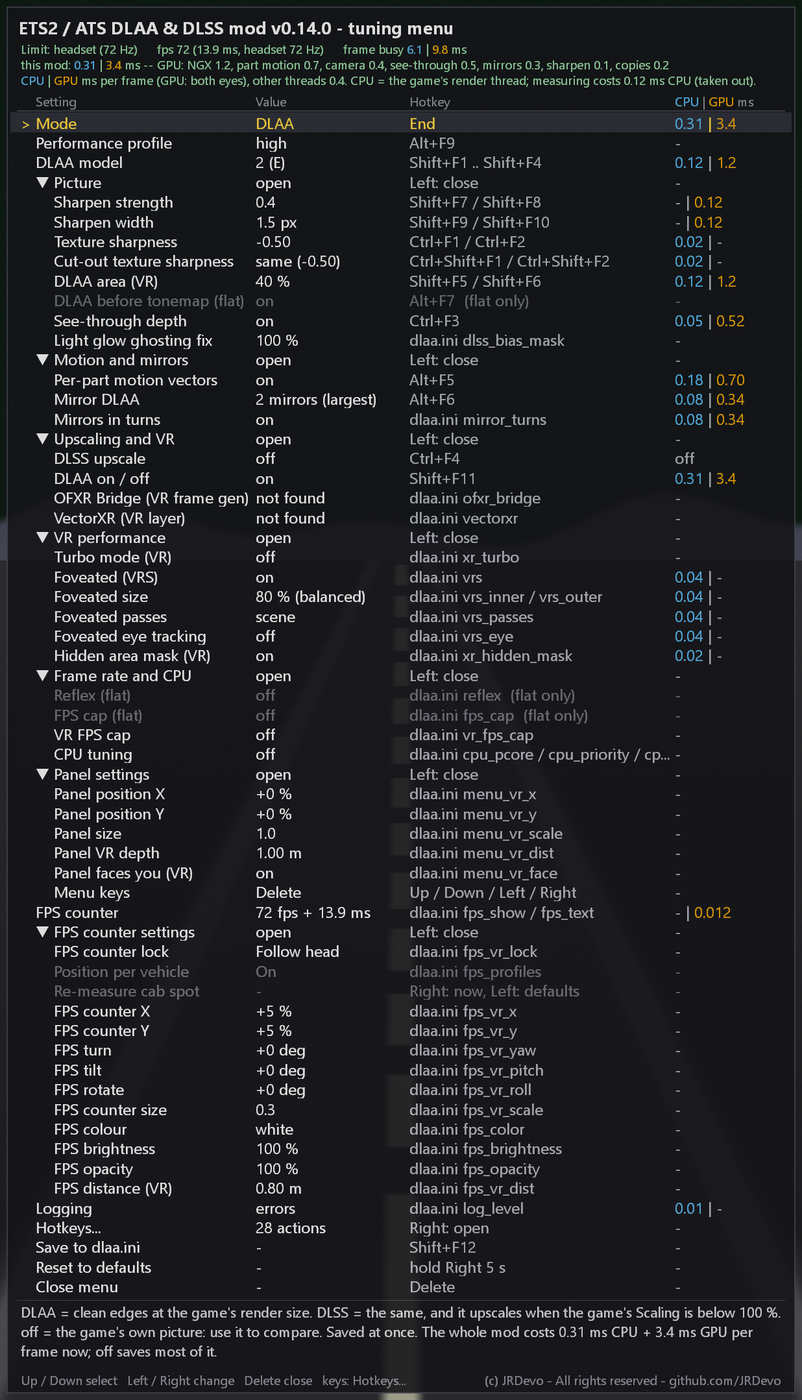
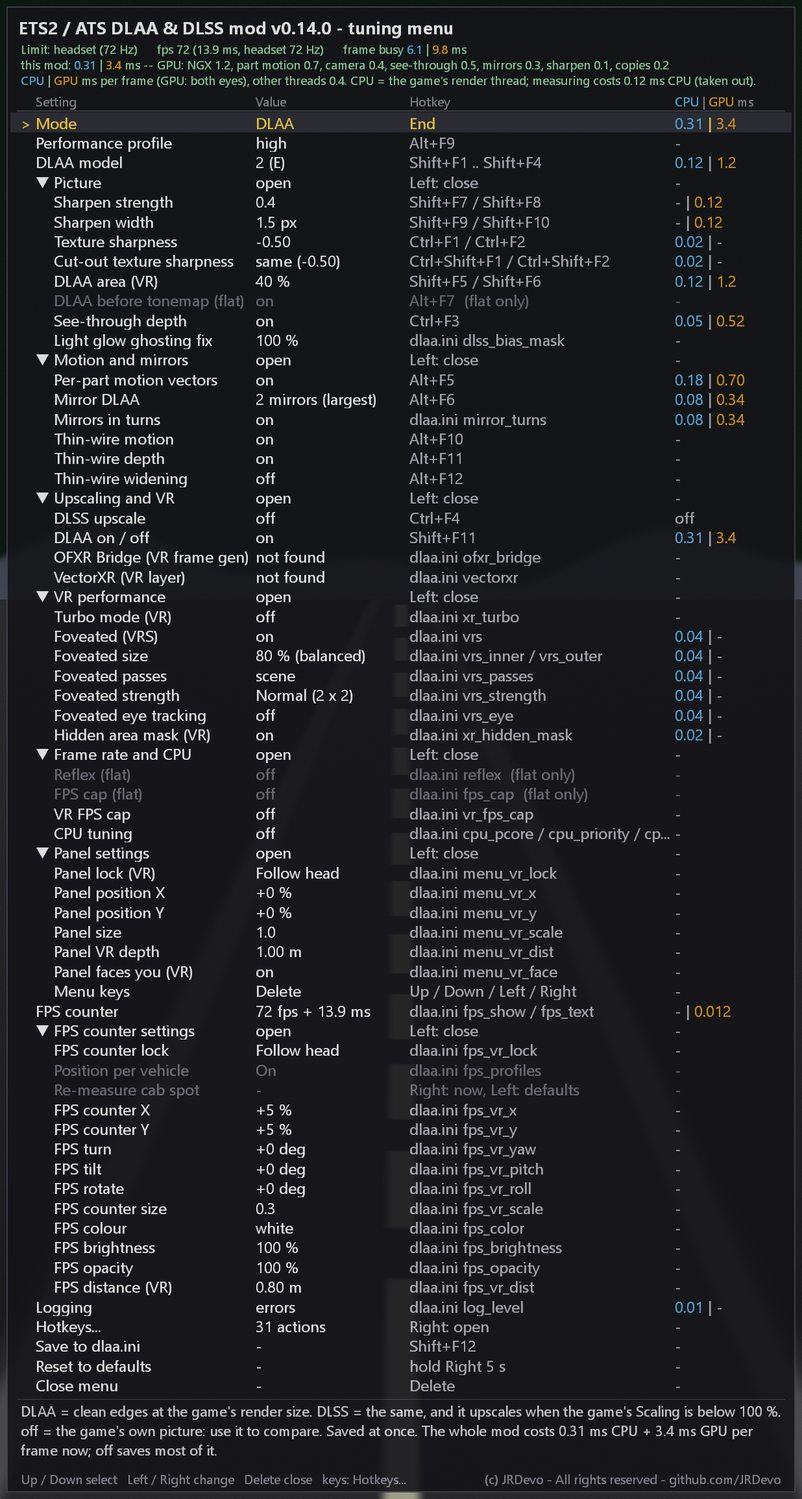
v0.14.0: release docs, menu pictures, phase 70 review fixes
- README / KEYS.md / dlaa.ini.sample: v0.14.0 status (rc wording gone), every change
  since v0.13.0 in the feature list and troubleshooting, Panel lock (VR) section and the
  4 menu_vr_lock keys, VectorXR tested on a Quest 3 (frame generation = half rate, like SSW).
- Menu pictures redone with tests/menu_shot.cpp: wire rows, Foveated strength, Panel lock,
  31 hotkey actions, v0.14.0 titles.
- Phase 70 review fixes (Fable): the fixed panel's pivot is dropped whenever the menu is
  closed (non-LOCAL spaces re-capture it at the next open); the menu_vr_lock keys parse
  outside WITH_DLAA; stale comment; DEVELOPMENT.md phase 70 entry; inject.cpp changelog.

diff --git a/tests/menu_shot.cpp b/tests/menu_shot.cpp
@@ -67,6 +67,9 @@ static const E kRows[] = {
     { G_MOT, false, L"Per-part motion vectors", L"on", L"Alt+F5", L"<c>0.18</> | <g>0.70</>", false, nullptr, nullptr },
     { G_MOT, false, L"Mirror DLAA", L"2 mirrors (largest)", L"Alt+F6", L"<c>0.08</> | <g>0.34</>", false, nullptr, nullptr },
     { G_MOT, false, L"Mirrors in turns", L"on", L"dlaa.ini mirror_turns", L"<c>0.08</> | <g>0.34</>", false, nullptr, nullptr },
+    { G_MOT, false, L"Thin-wire motion", L"on", L"Alt+F10", L"", false, nullptr, nullptr },          // phase 69
+    { G_MOT, false, L"Thin-wire depth", L"on", L"Alt+F11", L"", false, nullptr, nullptr },
+    { G_MOT, false, L"Thin-wire widening", L"off", L"Alt+F12", L"", false, nullptr, nullptr },
     { G_UP, true, L"Upscaling and VR", L"", L"", L"", false, nullptr, nullptr },
     { G_UP, false, L"DLSS upscale", L"off", L"Ctrl+F4", L"off", false, nullptr, nullptr },
     { G_UP, false, L"DLAA on / off", L"on", L"Shift+F11", L"<c>0.31</> | <g>3.4</>", false, nullptr, nullptr },
@@ -82,6 +85,7 @@ static const E kRows[] = {
       L"CPU 0.04 ms per frame; it saves GPU time in the game's own figure." },
     { G_VRP, false, L"Foveated size", L"80 % (balanced)", L"dlaa.ini vrs_inner / vrs_outer", L"<c>0.04</> | -", false, nullptr, nullptr },
     { G_VRP, false, L"Foveated passes", L"scene", L"dlaa.ini vrs_passes", L"<c>0.04</> | -", false, nullptr, nullptr },
+    { G_VRP, false, L"Foveated strength", L"Normal (2 x 2)", L"dlaa.ini vrs_strength", L"<c>0.04</> | -", false, nullptr, nullptr },   // phase 59f
     { G_VRP, false, L"Foveated eye tracking", L"off", L"dlaa.ini vrs_eye", L"<c>0.04</> | -", false, nullptr, nullptr },   // phase 59
     { G_VRP, false, L"Hidden area mask (VR)", L"on", L"dlaa.ini xr_hidden_mask", L"<c>0.02</> | -", false, nullptr, nullptr },
     { G_FR, true, L"Frame rate and CPU", L"", L"", L"", false, nullptr, nullptr },                                       // phase 52
@@ -90,6 +94,7 @@ static const E kRows[] = {
     { G_FR, false, L"VR FPS cap", L"off", L"dlaa.ini vr_fps_cap", L"", false, nullptr, nullptr },
     { G_FR, false, L"CPU tuning", L"off", L"dlaa.ini cpu_pcore / cpu_priority / cpu_no_throttle", L"", false, nullptr, nullptr },   // phase 54
     { G_PANEL, true, L"Panel settings", L"", L"", L"", false, nullptr, nullptr },
+    { G_PANEL, false, L"Panel lock (VR)", L"Follow head", L"dlaa.ini menu_vr_lock", L"", false, nullptr, nullptr },   // phase 70
     { G_PANEL, false, L"Panel position X", L"+0 %", L"dlaa.ini menu_vr_x", L"", false, nullptr, nullptr },
     { G_PANEL, false, L"Panel position Y", L"+0 %", L"dlaa.ini menu_vr_y", L"", false, nullptr, nullptr },
     { G_PANEL, false, L"Panel size", L"1.0", L"dlaa.ini menu_vr_scale", L"", false, nullptr, nullptr },
@@ -112,7 +117,7 @@ static const E kRows[] = {
     { G_FPSG, false, L"FPS opacity", L"100 %", L"dlaa.ini fps_opacity", L"", false, nullptr, nullptr },   // phase 51f
     { G_FPSG, false, L"FPS distance (VR)", L"0.80 m", L"dlaa.ini fps_vr_dist", L"", false, nullptr, nullptr },
     { -1, false, L"Logging", L"errors", L"dlaa.ini log_level", L"<c>0.01</> | -", false, nullptr, nullptr },
-    { -1, false, L"Hotkeys...", L"28 actions", L"Right: open", L"", false, nullptr, nullptr },   // v0.13.0 phase 50
+    { -1, false, L"Hotkeys...", L"31 actions", L"Right: open", L"", false, nullptr, nullptr },   // v0.13.0 phase 50
     { -1, false, L"Save to dlaa.ini", L"-", L"Shift+F12", L"", false, nullptr, nullptr },
     { -1, false, L"Reset to defaults", L"-", L"hold Right 5 s", L"", false, nullptr, nullptr },
     { -1, false, L"Close menu", L"-", L"Delete", L"", false, nullptr, nullptr },
@@ -361,6 +366,7 @@ static void HotkeysShot(Gpu& g, const wchar_t* file) {
         { L"DLAA area (VR) -", L"Shift+F5", L"-" }, { L"DLAA area (VR) +", L"Shift+F6", L"-" },
         { L"Per-part motion vectors", L"Alt+F5", L"-" }, { L"Mirror DLAA on / off", L"Alt+F6", L"-" },
         { L"DLAA before tonemap (flat)", L"Alt+F7", L"-" }, { L"See-through depth", L"Ctrl+F3", L"-" },
+        { L"Thin-wire motion (DLAA)", L"Alt+F10", L"-" }, { L"Thin-wire depth", L"Alt+F11", L"-" }, { L"Thin-wire widening", L"Alt+F12", L"-" },
         { L"DLSS upscale", L"Ctrl+F4", L"-" }, { L"DLAA on / off", L"Shift+F11", L"-" }, { L"Save to dlaa.ini", L"Shift+F12", L"-" },
         { L"Menu: open / close", L"Delete", L"Wheel10" }, { L"Menu: up", L"Up", L"WheelUp" }, { L"Menu: down", L"Down", L"WheelDown" },
         { L"Menu: left", L"Left", L"WheelLeft" }, { L"Menu: right", L"Right", L"WheelRight" },
@@ -370,7 +376,7 @@ static void HotkeysShot(Gpu& g, const wchar_t* file) {
     const int bindLine = 8;                                        // "Sharpen strength +"
     TuningMenu::Panel p;
     memset(&p, 0, sizeof(p));
-    wcsncpy_s(p.title, L"ETS2 / ATS DLAA & DLSS mod v0.13.0 - hotkeys", _TRUNCATE);
+    wcsncpy_s(p.title, L"ETS2 / ATS DLAA & DLSS mod v0.14.0 - hotkeys", _TRUNCATE);
     Put(p.perf[0], 224, Ink(kPerf0));
     Put(p.perf[1], 224, Ink(kPerf1));
     Put(p.perf[2], 224, Ink(kPerf2));

diff --git a/src/inject.cpp b/src/inject.cpp
@@ -1,3 +1,12 @@
+// v0.14.0 -- phase 59 (eye-tracked foveated rendering, + 59f vrs_strength), phases 60-69 (thin wires: dlaa_mv_dilate,
+//           mv_fwd_conservative, wire_widen + their menu rows), phase 56 (VectorXR), phase 70 (below).
+// phase 70 -- VR PANEL FIXED IN THE CAB + SHARPER VR PANEL TEXT (dlaa.ini menu_vr_lock 0/1, menu_vr_lock_x / _y degrees,
+//           menu_vr_lock_dist cm; menu row "Panel lock (VR)", first in Panel settings). Lock 1 = the panel quad in the game's
+//           layer space at yaw / pitch / distance from the seat (xr_hook.cpp OvBuildQuadLocked's `anchored`, shared with the fps
+//           box "fixed in play space"; pivot state per quad): steady while the head moves -- the head-locked VIEW-space quad
+//           shivered with Turbo's made-up display times. X / Y / depth rows edit the fixed spot while locked; the in-picture
+//           fallback stays head-locked. kOvPanelDensity 1.6 -> 3.2 (the panel image at menu_vr_scale 0.4 was 486 px with 10-px
+//           fonts the compositor stretched). kIniMaxKeys 64 -> 80.
 // phase 59 -- EYE-TRACKED FOVEATED RENDERING, EXPERIMENTAL (dlaa.ini vrs_eye 0/1, vrs_eye_fake 0/1, vrs_eye_smooth 0..100 ms, all
 //           default off / 20; menu row "Foveated eye tracking" after Foveated passes; GitHub discussion #11, a Varjo Aero tester).
 //           xr_hook.cpp adds XR_EXT_eye_gaze_interaction to the runtime's xrCreateInstance (the same extension-list copy as the
@@ -22622,11 +22631,6 @@ void LoadConfig() {
 #ifdef WITH_DLAA
             if (!strcmp(key, "did_shadow"))        { g_didShadowCfg = v >= 2 ? 2 : (v == 1 ? 1 : 0); continue; }   // startup only
             if (!strcmp(key, "did_shadow_verify")) { g_didShadowVerify = v < 0 ? -1 : (int)(v > 100000 ? 100000 : v); continue; }
-            // phase 70: the VR panel fixed in the cab (outside the else-if chain: C1061)
-            if (!strcmp(key, "menu_vr_lock"))      { g_menuVrLock = v != 0 ? 1 : 0; continue; }
-            if (!strcmp(key, "menu_vr_lock_x"))    { g_menuVrLockX = v < -90 ? -90 : (v > 90 ? 90 : (int)v); continue; }
-            if (!strcmp(key, "menu_vr_lock_y"))    { g_menuVrLockY = v < -60 ? -60 : (v > 60 ? 60 : (int)v); continue; }
-            if (!strcmp(key, "menu_vr_lock_dist")) { g_menuVrLockDist = v < 30 ? 30 : (v > 300 ? 300 : (int)v); continue; }
             // phase 40 / 41 / 42 (outside the else-if chain too: C1061 at the dev merge)
             if (!strcmp(key, "mirror_turns"))       { g_mirTurns = v > 0 ? 1 : 0; g_mirTurnsExplicit = true; continue; }   // phase 41
             // phase 52: frame rate (outside the else-if chain: C1061; the menu's Frame rate rows switch them live)
@@ -22637,6 +22641,11 @@ void LoadConfig() {
             if (!strcmp(key, "vectorxr"))           { Ofxr::ConfigureVectorXr(v != 0 ? 1 : 0); continue; }
             if (!strcmp(key, "vr_fps_cap"))         { g_vrFpsCap = FramePace::ClampVrDiv(v); g_paceExplicit = true; continue; }
 #endif
+            // phase 70: the VR panel fixed in the cab (outside the else-if chain: C1061)
+            if (!strcmp(key, "menu_vr_lock"))      { g_menuVrLock = v != 0 ? 1 : 0; continue; }
+            if (!strcmp(key, "menu_vr_lock_x"))    { g_menuVrLockX = v < -90 ? -90 : (v > 90 ? 90 : (int)v); continue; }
+            if (!strcmp(key, "menu_vr_lock_y"))    { g_menuVrLockY = v < -60 ? -60 : (v > 60 ? 60 : (int)v); continue; }
+            if (!strcmp(key, "menu_vr_lock_dist")) { g_menuVrLockDist = v < 30 ? 30 : (v > 300 ? 300 : (int)v); continue; }
             if (!strcmp(key, "xr_hidden_mask"))     { g_xrHiddenMask = v != 0 ? 1 : 0; g_xrHiddenMaskExplicit = true; continue; }   // phase 40
             if (!strcmp(key, "dlss_bias_mask"))     { g_biasCfg = v < 0 ? 0 : (v > 100 ? 100 : (int)v); g_biasExplicit = true; continue; }   // phase 49
             if (!strcmp(key, "light_redraw_jitter")) { g_lightRedrawCfg = v != 0 ? 1 : 0; continue; }   // phase 55 (outside the chain: C1061)

diff --git a/src/xr_hook.cpp b/src/xr_hook.cpp
@@ -989,7 +989,10 @@ bool OvEndFrame(int i, XrSession ses, const XrFrameEndInfo* fe, const XrComposit
     struct EndSeq { uint64_t& s; ~EndSeq() { ++s; } } endSeq{ s_ov.endSeq };   // this frame's release-draw interval ends
     bool have[2] = { s_ov.have[0], s_ov.have[1] };
     s_ov.have[0] = s_ov.have[1] = false;
-    if (!par.enabled || !par.menuOpen) s_ov.drawnValid[0] = false;   // phase 57: drawn again the first frame it is wanted again
+    if (!par.enabled || !par.menuOpen) {
+        s_ov.drawnValid[0] = false;                      // phase 57: drawn again the first frame it is wanted again
+        s_ov.pivotHave[0] = false;                       // phase 70: the fixed panel's pivot is captured again at the next open
+    }
     if (!par.enabled || !par.fpsShow) s_ov.drawnValid[1] = false;    //   (see OvDrawWantedLocked)
     if (!par.enabled) { OvSetOk(false, false); return false; }
     if (ses != s_ov.ses) {

diff --git a/src/menu.cpp b/src/menu.cpp
@@ -771,7 +771,7 @@ float RefHeight(int nRows) {
 
 // v0.10.3 phase 29c: measured at scale 1 (the small font = 13 px there): the widest case relative to the panel -- the size is
 // rounded up from 12.5 and the hinting widens small text (Segoe UI: the default footer is 430 px at 13 px, 403 at 50 px / 4),
-// so what fits here fits at every larger build scale (VR quad 1.6+). The room = the panel width - both margins - the licence
+// so what fits here fits at every larger build scale (VR quad: 3.2 x menu_vr_scale, phase 70). The room = the panel width - both margins - the licence
 // text - the gap, as RenderPanel lays the line out. No GDI = "no".
 bool FooterFits(const wchar_t* footer) {
     if (!footer || !footer[0]) return true;

diff --git a/README.md b/README.md
@@ -23,7 +23,7 @@ an in-game menu (`Delete`) and an optional text config.
 
 **Menu:** [Features](#features) · [Download](#-download) · [Requirements](#requirements) · [Install](#install) · [Modes](#modes--the-end-key) · [Flat or VR](#flat-or-vr) · [OFXR Bridge](#ofxr-bridge-vr-frame-generation) · [VectorXR](#vectorxr-vr-layer-suite) · [Render scale](#how-render-scale-works) · [Models](#models-presets--which-one-to-use) · [Controls](#controls) · [Tuning menu](#the-tuning-menu) · [dlaa.ini](#dlaaini) · [Performance](#performance) · [Troubleshooting](#troubleshooting) · [Multiplayer](#multiplayer) · [Build](#build-from-source) · [Report a problem](#reporting-a-problem-what-to-upload) · [Contributing](CONTRIBUTING.md) · [License](#license-and-credits)
 
-> **Where the project stands (v0.13.0).** The mod was built for as many use cases, devices and situations as
+> **Where the project stands (v0.14.0).** The mod was built for as many use cases, devices and situations as
 > I could reach: flat and VR, one screen and three, keyboard, wheel and shifter, Reflex and frame rate caps,
 > foveated rendering, a hidden area mask, Turbo mode, CPU tuning, a tuning menu with every setting and its cost.
 > There are many options to tweak, and to tweak is paradise. The bells and whistles I know of are in; the ideas
@@ -38,25 +38,29 @@ an in-game menu (`Delete`) and an optional text config.
 - **Mirrors anti-aliased too**, trailer included.
 - **Exact motion for traffic**, wheels, trailers and plates: sharp, no ghosting.
 - Menu and truck-preview screens get anti-aliasing as well.
+- **Steadier near wires**: telephone and power wires stay calm while you drive. **new**
 - Four DLSS models, switched live with a key.
 - Sharper texture text and adjustable sharpening.
 
 **Flat and VR**
 - One DLL and one `dlaa.ini` for both; VR renders one pass per eye (OpenXR).
-- **Triple screens** in flat: every screen gets its own DLAA. **new**
+- **Triple screens** in flat: every screen gets its own DLAA.
 - Windows HDR and NVIDIA Smooth Motion work in flat mode.
-- OFXR Bridge (VR frame generation) and VectorXR (VR layer suite) work alongside.
+- OFXR Bridge (VR frame generation) and **VectorXR** (VR layer suite) work alongside. **new: VectorXR**
 - Drivable cars (ATS) get DLAA / DLSS too.
 
 **VR extras and speed**
-- **VR fps counter attached to the vehicle**: rides with the cab; 20 colours. **new**
-- Three VR speed-ups: hidden area mask, foveated lighting, mirrors in turns. **new**
+- **Eye-tracked foveated rendering**: the sharp area follows your eyes (eye-tracked headsets, experimental). **new**
+- **Foveated strength**: Normal / Strong / Max outer ring for more GPU saving. **new**
+- **VR fps counter attached to the vehicle**: rides with the cab; 20 colours.
+- Three VR speed-ups: hidden area mask, foveated lighting, mirrors in turns.
 - DLAA area: process only the middle of each eye.
-- **Frame rate limits**: NVIDIA Reflex and an FPS cap in flat, a half / third rate VR FPS cap. **new**
+- **Frame rate limits**: NVIDIA Reflex and an FPS cap in flat, a half / third rate VR FPS cap.
 
 **Menu**
 - **In-game menu** (`Delete`): every setting, its hotkey, its GPU cost, a short description.
 - Panel and fps counter can be moved and resized, flat and VR.
+- **VR panel fixed in the cab**: stays still while you look around; sharper text. **new**
 - Live CPU and GPU cost per part, and what limits your frame rate.
 
 **Setup**
@@ -75,7 +79,14 @@ an in-game menu (`Delete`) and an optional text config.
   costs on the GPU and a short description; `Up` / `Down` select, `Left` / `Right` change. Flat and VR (both eyes); the game does
   not see those keys while the menu is open. See [The tuning menu](#the-tuning-menu).
 - **Movable widgets** — the tuning panel and the live fps counter can both be moved and resized from the menu
-  (position X / Y and size), flat and VR each with their own place. In VR the panel turns to face you.
+  (position X / Y and size), flat and VR each with their own place. In VR the panel turns to face you. New in v0.14.0:
+  the VR panel can stay fixed in the cab (`Panel lock (VR)`), and its text is drawn sharper.
+- **Eye-tracked foveated rendering (VR, experimental)** — on a headset with eye tracking (OpenXR eye gaze, tested on
+  Varjo Aero) the sharp centre of `Foveated (VRS)` follows where you look; `Foveated strength` sets how coarse the outer
+  ring is (new in v0.14.0). See [the test guide](docs/EYE_TRACKING_TEST.md).
+- **Steadier thin wires** — near telephone and power wires no longer break up while you drive (`Thin-wire motion`,
+  `Thin-wire depth`, both on; `Thin-wire widening` is experimental and off). Far wires thinner than 1 pixel can still
+  break up (new in v0.14.0).
 - **Live CPU and GPU cost** — the menu shows what each part of this mod costs on the CPU and the GPU, in ms, and what
   limits your frame rate right now (CPU, GPU or the headset).
 - **Triple screens (flat)** — with the game's multi-monitor mode every screen gets its own DLAA (new in v0.12.0).
@@ -99,7 +110,9 @@ an in-game menu (`Delete`) and an optional text config.
 - **OFXR Bridge (VR frame generation)** — runs together with the bridge, which adds in-between frames to the
   finished eye pictures (see [OFXR Bridge](#ofxr-bridge-vr-frame-generation)).
 - **VectorXR (VR layer suite)** — runs together with VectorXR (Turbo, Depth, frame generation, on-screen display); the mod leaves
-  its work inside the game alone (see [VectorXR](#vectorxr-vr-layer-suite)).
+  its work inside the game alone (see [VectorXR](#vectorxr-vr-layer-suite); new in v0.14.0, tested on a Quest 3).
+- **Lower CPU cost** — a performance pass in v0.14.0: the VR panel and fps box are only redrawn when their text changes,
+  and the per-part motion work in busy scenes takes less CPU time.
 - **Drivable cars (ATS)** — DLAA / DLSS also runs while you drive a car.
 - **Menu and truck-preview screens** get anti-aliasing too, not only the drive.
 - **Four DLSS models** to pick from, switched live with a key, from light to heavy.
@@ -143,13 +156,14 @@ This is an unofficial fan project. It is not affiliated with, or endorsed by, SC
 Software or NVIDIA. Euro Truck Simulator 2 and American Truck Simulator are
 trademarks of SCS Software; DLSS and DLAA are trademarks of NVIDIA Corporation.
 
-> Status: v0.13.0. New: NVIDIA Reflex and frame rate caps, a Hotkeys page in the menu, a per-vehicle fps box in VR, a night light glow fix, CPU tuning, and fixes for Linux / Proton.
-> Test build v0.14.0-rc1 (pre-release): eye-tracked foveated rendering (Varjo), Foveated strength, the thin-wire fix (near wires stay steady while driving) and VectorXR support. For testers; see [the test guide](docs/EYE_TRACKING_TEST.md).
+> Status: v0.14.0. New: eye-tracked foveated rendering (experimental, tested on Varjo), Foveated strength, steadier near wires while driving, VectorXR support (tested), and a VR menu panel that can stay fixed in the cab with sharper text. Eye tracking test guide: [docs/EYE_TRACKING_TEST.md](docs/EYE_TRACKING_TEST.md).
 > With this version the bells and whistles I know of are in. From here on the main work is performance tuning, from your logs; new ideas are still welcome. See [Contributing](CONTRIBUTING.md).
 > See the [Releases page](https://github.com/JRDevo/ETS2-ATS-DLAA-DLSS-Injection-Mod/releases) for every version.
 > DLSS upscaling in VR is still being tuned; treat it as experimental.
 
 <details><summary><h3>Older versions</h3></summary>
+
+v0.13.0: NVIDIA Reflex and frame rate caps, a Hotkeys page in the menu, a per-vehicle fps box in VR, a night light glow fix, CPU tuning, and fixes for Linux / Proton.
 
 v0.12.0: triple screens in flat, the VR fps counter attached to the vehicle, a menu in categories with a CPU | GPU cost column, hidden area mask, foveated lighting pass and mirrors in turns.
 
@@ -319,7 +333,9 @@ own thread are not mistaken for the game's.
   at start, `VectorXR: layer found in the game` once, and `OFXR Bridge / VectorXR: N calls passed through so far`. The tuning
   menu's `VectorXR (VR layer)` row (group `Upscaling and VR`) shows `found` / `not found` / `off`.
 
-Status: the handling is built but not yet tested in a headset with VectorXR; report what you see with `log_level = 4`.
+Status: tested on a Quest 3 (Virtual Desktop): the game and the mod run with VectorXR's layer loaded. With VectorXR's frame
+generation on, the game itself runs at half the frame rate and VectorXR fills the rest, as SSW / ASW do: on that PC it was no
+gain. Report what you see with `log_level = 4`.
 
 </details>
 
@@ -578,7 +594,7 @@ The three green lines under the title show the game's GPU time per frame, what t
   key first. The **Menu keys** row in the `Panel
   settings` group shows them; `Right` on it opens the Hotkeys page there. See
   [`docs/KEYS.md`](docs/KEYS.md#bind-a-key-in-the-menu).
-- **Groups (v0.10.3):** the panel rows (`Panel position X` / `Y`, `Panel size`, `Panel VR depth`, `Panel faces you`,
+- **Groups (v0.10.3):** the panel rows (`Panel lock (VR)`, `Panel position X` / `Y`, `Panel size`, `Panel VR depth`, `Panel faces you`,
   `Menu keys`) sit in the **Panel settings** group and the fps box rows (`FPS counter lock`, `X`, `Y`, `turn`, `tilt`, `rotate`, `size`, `colour`,
   `brightness`, `distance`) in the
   **FPS counter settings** group, right under the `FPS counter` row. Both groups are closed every time the menu
@@ -600,6 +616,13 @@ The three green lines under the title show the game's GPU time per frame, what t
   follows your head -- towards you as a true 3-D layer. With `menu_vr_layer = 0` (the panel drawn into the picture, as
   before; also the automatic fallback when the layers are not possible) `Panel VR depth` is the inward shift in px
   (`menu_vr_depth`).
+- **VR: panel fixed in the cab (new in v0.14.0).** The `Panel lock (VR)` row: `Follow head` (default) = the panel moves
+  with the headset; `Fixed in cab` = it stays at one spot in front of your seat and keeps still while you look around.
+  While it is fixed, `Panel position X` / `Y` set the spot in degrees around your seat (Y: plus = down) and
+  `Panel VR depth` its distance from the seat (`menu_vr_lock`, `menu_vr_lock_x`, `menu_vr_lock_y`, `menu_vr_lock_dist`;
+  0.80 m by default). The head-locked position is kept for when you switch back. Needs the VR layer
+  (`menu_vr_layer = 1`, the default); with `menu_vr_layer = 0` the panel always follows your head.
+  Also new in v0.14.0: the VR panel text is drawn with twice the pixels, so small panel sizes stay sharp.
 - **Live fps counter:** ![fps counter](docs/images/fps-counter.png) the `FPS counter` row (Right / Left step `Off`, `72 fps + 13.9 ms`, `72 fps`, `13.9 ms`, and the same as plain numbers: `72 + 13.9`, `72`, `13.9`) switches on a small fps box: the fps and the frame time as text with a dark outline, no background (`60 fps` /
   `16.7 ms`, updated twice a second) that stays on screen also when the menu is closed (flat, and in VR in both eyes).
   Its own GPU cost is measured and shown in the row's cost column, per frame (all the pictures it is drawn into together).
@@ -673,7 +696,7 @@ The three green lines under the title show the game's GPU time per frame, what t
   **Foveated strength** (`vrs_strength`) sets how coarse the outer ring is: `Normal` (default, 1 colour per 2 x 2
   pixels), `Strong` (4 x 2) or `Max` (4 x 4), also for the lighting pass when Foveated passes is `scene + lighting`.
   More saving, blockier edges; best with eye tracking.
-  **Foveated eye tracking** (`vrs_eye`, off by default; **experimental / test build**): on a headset with eye tracking
+  **Foveated eye tracking** (`vrs_eye`, off by default; **experimental**, new in v0.14.0): on a headset with eye tracking
   that the VR runtime reports through OpenXR (`XR_EXT_eye_gaze_interaction`, for example Varjo; other
   eye-tracked headsets may work too), the sharp centre follows where you look instead of staying at the lens centre. Without an eye tracker the row
   says `no eye tracker` and nothing changes. The mod asks the runtime for eye gaze when the game starts, so the first
@@ -780,6 +803,8 @@ The table below lists the commonly used keys:
 | `menu_vr_x` / `menu_vr_y` / `menu_vr_scale` / `menu_vr_depth` | `0` / `-5` / `1.0` / `12` | tuning menu panel, VR: centre offset from the eye's centre in % (`-50`..`50`, negative y = up), size (1 = 54 % of the eye width), inward shift per eye in px |
 | `menu_vr_dist` | `100` | tuning menu panel, VR layer (v0.10.3, `menu_vr_layer = 1`): the panel's distance in cm (`30`..`300`); it keeps the same size at every distance, only the stereo depth changes. The menu's `Panel VR depth` row sets it in 5 cm steps on the layer path (`menu_vr_depth` is the in-picture shift) |
 | `menu_vr_face` | `1` | tuning menu panel, VR: `1` = the panel turns to face your eye when moved off the centre (a tilted 3-D panel, same size from every angle), `0` = a flat picture. On the VR layer path (default) also the fps box when it follows your head, turned by the compositor. The menu's `Panel faces you (VR)` row switches it live |
+| `menu_vr_lock` | `0` | tuning menu panel, VR layer (new in v0.14.0): `0` = follows the headset, `1` = fixed in the cab at one spot in front of your seat (steady while you look around). The menu's `Panel lock (VR)` row |
+| `menu_vr_lock_x` / `menu_vr_lock_y` / `menu_vr_lock_dist` | `0` / `10` / `80` | the fixed panel's spot (v0.14.0, `menu_vr_lock = 1`): degrees around your seat (x `-90`..`90`, + = right; y `-60`..`60`, + = down) and its distance from the seat in cm (`30`..`300`). The `Panel position X` / `Y` and `Panel VR depth` rows set them while the panel is fixed |
 | `menu_vr_layer` | `1` | VR (v0.10.3): `1` = the panel and the fps box are separate OpenXR quad layers the headset's compositor places itself: rock-steady (no swimming with the reprojection), at a real distance (panel `menu_vr_dist`, default 1 m; fps box 0.8 m), facing you with `menu_vr_face = 1`, never covered by the game's menus; `menu_vr_depth` is then unused. `0` = drawn into the eye picture as before (also the automatic fallback; `menu_vr_dist` unused) |
 | `fps_show` | `0` | live fps box: `1` = a small fps / frame-time box stays on screen, also while the menu is closed. The menu's `FPS counter` row switches it live |
 | `fps_text` | `0` | what the fps box shows: `0` = fps and frame time (two lines), `1` = fps only, `2` = frame time (ms) only, and the same as plain numbers without `fps` / `ms`: `3` = both, `4` = the fps number, `5` = the ms number. The menu's `FPS counter` row steps `Off` / `72 fps + 13.9 ms` / `72 fps` / `13.9 ms` / `72 + 13.9` / `72` / `13.9` |
@@ -797,7 +822,7 @@ The table below lists the commonly used keys:
 | `vrs_quality` | `1` | foveated rendering: `1` = full detail inside `vrs_outer`; `0` = the ring between `vrs_inner` and `vrs_outer` is shaded per 2 x 1 pixels too (more saving) |
 | `vrs_passes` | `0` | foveated rendering: what it acts on. `0` = the 3D world only; `1` = also the game's lighting pass, outer ring only (the middle ring stays sharp even with `vrs_quality = 0`). More saving; test it first. The menu's `Foveated passes` row switches it live, `Shift+F12` saves |
 | `vrs_strength` | `0` | foveated rendering: how coarse the outer ring is. `0` = Normal (2 x 2), `1` = Strong (4 x 2), `2` = Max (4 x 4). More saving, blockier edges; best with `vrs_eye = 1`. The menu's `Foveated strength` row changes it live, `Shift+F12` saves |
-| `vrs_eye` | `0` | foveated rendering, **experimental / test build** (phase 59): `1` = the sharp centre follows your gaze on a headset with eye tracking (OpenXR `XR_EXT_eye_gaze_interaction`, for example Varjo); without one it stays at the lens centre. The mod asks the runtime for eye gaze at the game's start when this or `vrs` is on, so with `vrs = 1` the menu's `Foveated eye tracking` row switches it live with no restart (with `vrs = 0` at the start: restart once), `Shift+F12` saves. The log's `Eye tracking` lines show what the headset sent |
+| `vrs_eye` | `0` | foveated rendering, **experimental** (phase 59, new in v0.14.0): `1` = the sharp centre follows your gaze on a headset with eye tracking (OpenXR `XR_EXT_eye_gaze_interaction`, for example Varjo); without one it stays at the lens centre. The mod asks the runtime for eye gaze at the game's start when this or `vrs` is on, so with `vrs = 1` the menu's `Foveated eye tracking` row switches it live with no restart (with `vrs = 0` at the start: restart once), `Shift+F12` saves. The log's `Eye tracking` lines show what the headset sent |
 | `vrs_eye_smooth` | `20` | eye-tracked foveation: how calmly the sharp centre follows the gaze, a time constant in ms (`0`..`100`; `0` = every gaze sample at once). A big eye jump (a saccade) is followed four times faster |
 | `vrs_eye_fake` | `0` | eye-tracked foveation, test only: `1` (with `vrs_eye = 1`) = a made-up gaze that circles slowly (about 14 degrees, one turn in 6 s) instead of the eye tracker, to check the moving sharp area on a headset without one. OpenXR eye gaze is then not requested |
 | `vrs_debug` | `0` | foveated rendering, test only (needs `log_level = 4`): `1` = middle ring 2 x 2, outer ring 4 x 4, to see the pattern |
@@ -964,6 +989,12 @@ Windows 11 Pro, 3840x2160 monitor; VR = Meta Quest 3 over Virtual Desktop (VDXR)
   (the Hotkeys page, GitHub issue #16).
 - **The VR fps box moved after a menu or a recentre, or sat in the wrong place in a second truck:** fixed in v0.13.0: update
   (the box is saved on the cab itself, per vehicle).
+- **Near telephone / power wires flicker or break up while driving:** fixed in v0.14.0: update (`Thin-wire motion` and
+  `Thin-wire depth`, both on by default). Far wires thinner than 1 pixel can still break up.
+- **The log shows `ERROR` lines although nothing is wrong, or the flat stats line shows only one screen:** fixed in
+  v0.14.0: update (GitHub issues #14 and #15).
+- **The VR menu panel shivers or jitters when you move your head (most with Turbo mode on):** set `Panel lock (VR)` to
+  `Fixed in cab` (new in v0.14.0). **The VR panel text looks thick or soft at a small panel size:** fixed in v0.14.0: update.
 - **Faint dark line down the middle of the menu / truck-preview screen:** fixed in v0.8.1: update.
 - **Dark 1 px line on every silhouette (trees, poles, trucks) in flat mode:** fixed in v0.10.1: update. v0.10.0
   drew the game's fog pass one texel off.

diff --git a/docs/DEVELOPMENT.md b/docs/DEVELOPMENT.md
@@ -2131,6 +2131,26 @@ non-blocking readback timing -- so it is judged by the check totals and a verify
   viewport must be the view's size for the shift to apply), the level-4 counts. Unit tests: the existing suite only (none of it
   exercises the lighting bind).
 
+### Phase 70 (v0.14.0): VR panel fixed in the cab (`menu_vr_lock`) + sharper VR panel text
+
+- **Why.** The head-locked panel quad (our VIEW space) shivered while the head moved: the runtime locates a VIEW-space quad at
+  the frame's `displayTime`, and with Turbo mode that time is made up (up to ~1 frame off), so the head pose used for the quad
+  is wrong by head velocity x time error, different every frame. The fps box "fixed in play space" (game layer space) was steady.
+- **What.** Menu row `Panel lock (VR)` (`MR_PANELLOCK`, first in Panel settings; greyed in flat or without the quad path):
+  `Follow head` / `Fixed in cab`. Fixed = the panel quad in the game's projection-layer space at yaw / pitch degrees and a
+  distance from the seat (`menu_vr_lock_x` / `_y` / `_dist`, defaults 0 / 10 / 80 cm), placed by the same code as the fps box:
+  `OvBuildQuadLocked`'s `anchored` lambda (LOCAL space: pivot = origin; other spaces: eyes' midpoint + head yaw captured at
+  lock-on). Pivot state is per quad (`OvState::lastLock / pivotSpace / pivotHave / pivot / yaw0 [2]`); the panel's pivot is
+  dropped whenever the menu is closed. While locked, the X / Y / depth rows edit the fixed spot; the head-locked keys stay. The
+  in-picture fallback (`menu_vr_layer = 0`) stays head-locked. Draw order uses `menu_vr_lock_dist` while fixed.
+- **Sharper text.** `kOvPanelDensity` 1.6 -> 3.2 (image px per reference px per `menu_vr_scale`): at scale 0.4 the panel image
+  was 486 px wide with ~10-px GDI fonts the compositor stretched (thick, soft). Capped by the unchanged swapchain (2.4): full
+  density up to scale 0.75. Images are redrawn only on content change (phase 57), so the cost is per change, not per frame.
+- **Other.** `kIniMaxKeys` 64 -> 80 (the save writes up to 65 keys). The new ini keys parse as standalone `if` + `continue`
+  outside the key chain (C1061) and outside `WITH_DLAA`.
+- **Verified.** VR (ETS2, Quest 3 via Virtual Desktop, LOCAL layer space): the fixed panel holds still, text sharp at size 0.4.
+  Not verified: a non-LOCAL layer space (pivot capture path for the panel).
+
 ### The RenderDoc oracle (done in v0.2)
 
 Capture a frame of the unmodified game to learn empirically: which pass writes

diff --git a/docs/KEYS.md b/docs/KEYS.md
@@ -45,7 +45,7 @@ menu and the garage / truck dealer screens, before a save is loaded).
 | `Up` / `Down` | Select a row (hold to scroll) |
 | `Left` / `Right` | Change the selected row. Number rows step and repeat while held; switches, the mode, the profile and the model change once per press. On a group row (`Panel settings`, `FPS counter settings`) `Right` opens the group, `Left` closes it |
 
-- **Two groups keep the list short** (v0.10.3): **Panel settings** (`Panel position X`, `Panel position Y`, `Panel size`,
+- **Two groups keep the list short** (v0.10.3): **Panel settings** (`Panel lock (VR)`, `Panel position X`, `Panel position Y`, `Panel size`,
   `Panel VR depth`, `Panel faces you (VR)`, `Menu keys`) and **FPS counter settings** (`FPS counter lock`, `FPS counter X`,
   `FPS counter Y`, `FPS counter size`; the `FPS counter` on / off row itself stays in the main list, right above the
   group). Both are **closed every time the menu opens** (the value shows `...`): select the group row and press `Right` to
@@ -86,6 +86,11 @@ menu and the garage / truck dealer screens, before a save is loaded).
   follows your head -- towards you as a true 3-D layer (off = parallel to your view, a flat picture seen at an angle).
   With `menu_vr_layer = 0` (the panel drawn into the picture; also the automatic fallback when the layers are not
   possible) **Panel VR depth** is the inward shift in px (`menu_vr_depth`) as above.
+- **Panel lock (VR)** (v0.14.0, no key, `menu_vr_lock`): `Follow head` (default) or `Fixed in cab` -- the panel stays at
+  one spot in front of your seat and keeps still while you look around. While fixed, **Panel position X / Y** set that spot
+  in degrees around the seat (Y: plus = down) and **Panel VR depth** its distance from the seat (`menu_vr_lock_x`,
+  `menu_vr_lock_y`, `menu_vr_lock_dist`, default 0.80 m); the head-locked position is kept for when you switch back.
+  Needs the VR layer (`menu_vr_layer = 1`); greyed otherwise and in flat.
 - **FPS counter** (on / off), **FPS counter X / Y, FPS counter size**: a small live fps box: the fps and the frame time as text with a dark outline, no background
   (`60 fps` / `16.7 ms`, updated twice a second) that stays on screen also while the menu is closed, in flat and in VR
   (both eyes + the desktop mirror). Flat and VR each keep their own position (`fps_show`, `fps_x`, `fps_y`, `fps_scale`,
